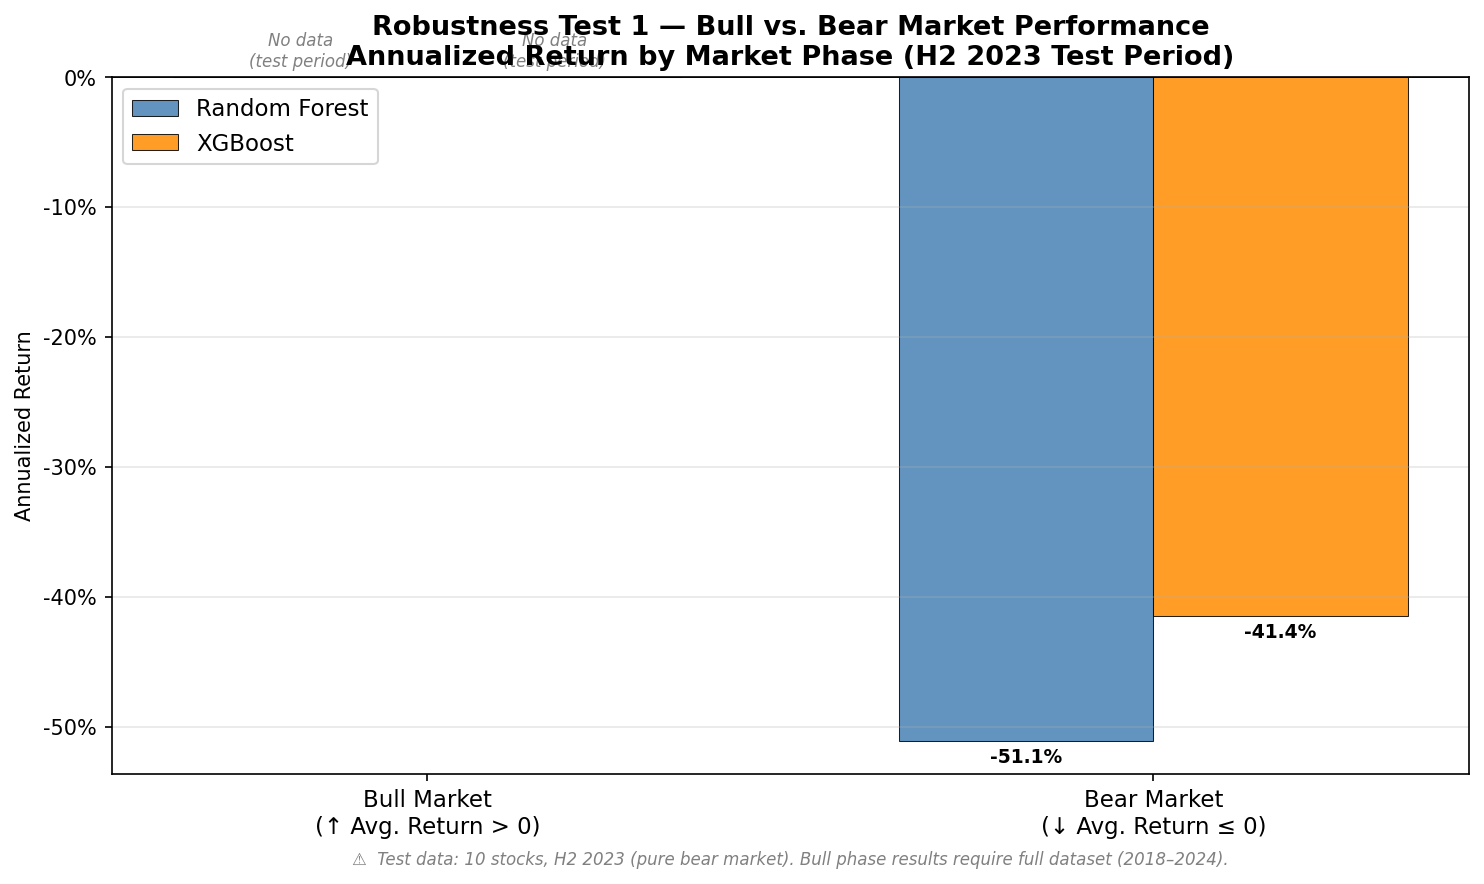
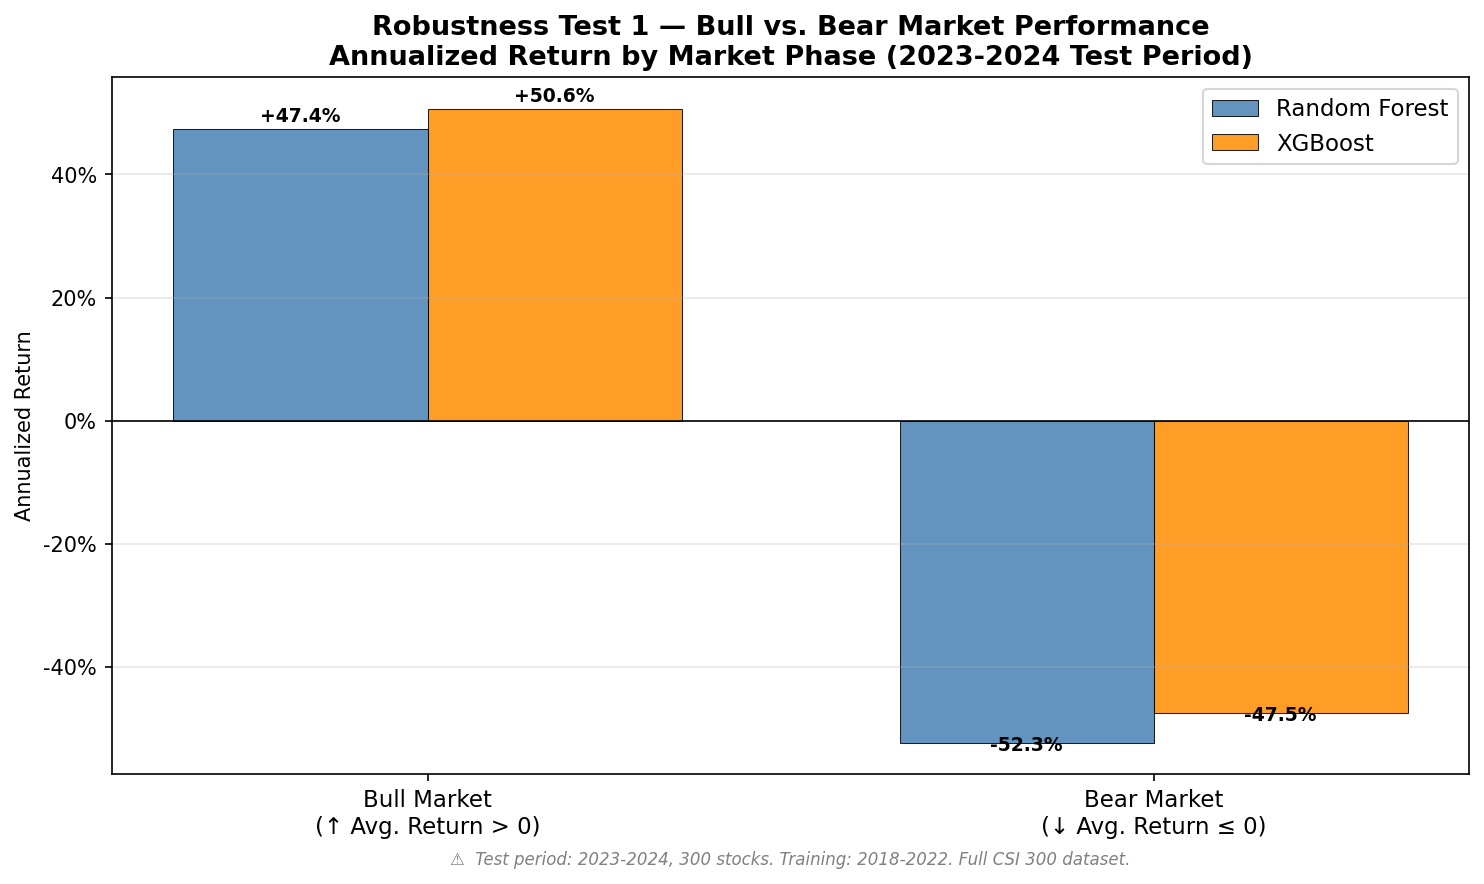
Full dataset results: 300 stocks 2018-2024, robustness analysis complete

diff --git a/factors/factors.py b/factors/factors.py
@@ -40,43 +40,31 @@ print(stocks[:5])
 
 # --- Block 3: Load Daily Price Data ---
 def get_price_data(stocks, start_date='20180101', end_date='20241231'):
-    """
-    Loads daily price data for a list of stocks.
-    Returns a DataFrame with all stocks combined.
-    """
     all_data = []
-
-    for stock in stocks:
-        df = pro.daily(
-            ts_code=stock,
-            start_date=start_date,
-            end_date=end_date
-        )
-        all_data.append(df)
-
+    
+    for i, stock in enumerate(stocks):
+        success = False
+        retries = 3
+        while not success and retries > 0:
+            try:
+                df = pro.daily(
+                    ts_code=stock,
+                    start_date=start_date,
+                    end_date=end_date
+                )
+                all_data.append(df)
+                success = True
+                if (i + 1) % 10 == 0:
+                    print(f"  Progress: {i+1}/{len(stocks)} stocks loaded")
+            except Exception as e:
+                retries -= 1
+                print(f"  ⚠ Retry {stock} ({retries} left): {e}")
+                import time
+                time.sleep(5)  # 5 Sekunden warten vor Retry
+    
     price_data = pd.concat(all_data, ignore_index=True)
     print(f"✅ Price data loaded: {len(price_data)} rows")
     return price_data
-
-# --- Save / Load Logic ---
-import os
-
-DATA_FILE = 'data/price_data.csv'  # Path to saved data
-
-if os.path.exists(DATA_FILE):
-    # If file exists → load from disk, no API call needed
-    print("📂 Loading price data from local file...")
-    prices = pd.read_csv(DATA_FILE)
-    print(f"✅ Loaded {len(prices)} rows from disk")
-else:
-    # If file doesn't exist → fetch from Tushare and save
-    print("🌐 Fetching price data from Tushare...")
-    os.makedirs('data', exist_ok=True)  # Create data folder if needed
-    prices = get_price_data(stocks)
-    prices.to_csv(DATA_FILE, index=False)  # Save to disk
-    print(f"✅ Saved to {DATA_FILE}")
-
-print(prices.head())
 
 # --- Block 4: Calculate Momentum Factor ---
 def calculate_momentum(price_data, window=20):
@@ -111,8 +99,8 @@ def calculate_momentum(price_data, window=20):
     return momentum_df
 
 # Test
-momentum = calculate_momentum(prices)
-print(momentum.head(10))
+#momentum = calculate_momentum(prices)
+#print(momentum.head(10))
 
 # --- Block 5: Load Fundamental Data (PE, PB, Turnover) ---
 def get_fundamental_data(stocks, trade_date='20240103'):
@@ -140,7 +128,7 @@ def get_fundamental_data(stocks, trade_date='20240103'):
     return fundamentals
 
 # Test
-fundamentals = get_fundamental_data(stocks)
+#fundamentals = get_fundamental_data(stocks)
 
 # --- Block 6: Load ROE (Profitability Factor) ---
 def get_roe_data(stocks, period='20231231'):
@@ -172,29 +160,62 @@ def get_roe_data(stocks, period='20231231'):
     return roe_df
 
 # Test
-roe_data = get_roe_data(stocks)
+#roe_data = get_roe_data(stocks)
 # --- Block 6b: Load Monthly Fundamentals (PE, Turnover) ---
 def get_monthly_fundamentals(stocks, start_date='20180101', end_date='20241231'):
-    """
-    Lädt PE und Turnover für jeden Monat × jede Aktie.
-    Wir nehmen den letzten Handelstag jedes Monats.
-    """
+    FUND_FILE = 'data/fundamentals_monthly.csv'
+    
+    # Bereits geladene Daten prüfen
+    if os.path.exists(FUND_FILE):
+        existing = pd.read_csv(FUND_FILE)
+        done_dates = existing['trade_date'].unique().tolist()
+        print(f"📂 Bereits geladen: {len(done_dates)} Datumswerte — weiter ab da")
+    else:
+        existing = pd.DataFrame()
+        done_dates = []
+        os.makedirs('data', exist_ok=True)
+
     dates = pd.date_range(start=start_date, end=end_date, freq='BME')
     dates = [d.strftime('%Y%m%d') for d in dates]
 
     all_data = []
+    import time
 
-    for date in dates:
+    for di, date in enumerate(dates):
+        if int(date) in done_dates or date in done_dates:
+            continue  # bereits geladen → überspringen
+
         for stock in stocks:
-            df = pro.daily_basic(
-                ts_code=stock,
-                trade_date=date,
-                fields='ts_code,trade_date,pe_ttm,turnover_rate'
-            )
-            if len(df) > 0:
-                all_data.append(df)
+            success = False
+            retries = 3
+            while not success and retries > 0:
+                try:
+                    df = pro.daily_basic(
+                        ts_code=stock,
+                        trade_date=date,
+                        fields='ts_code,trade_date,pe_ttm,turnover_rate'
+                    )
+                    if len(df) > 0:
+                        all_data.append(df)
+                    success = True
+                except Exception as e:
+                    retries -= 1
+                    print(f"  ⚠ Retry {stock} {date} ({retries} left): {e}")
+                    time.sleep(5)
 
-    fundamentals_monthly = pd.concat(all_data, ignore_index=True)
+        # Nach jedem Monat speichern
+        if all_data:
+            temp = pd.concat([existing] + all_data, ignore_index=True)
+            temp.to_csv(FUND_FILE, index=False)
+
+        if (di + 1) % 10 == 0:
+            print(f"  Progress: {di+1}/{len(dates)} months loaded")
+
+    if all_data:
+        fundamentals_monthly = pd.concat([existing] + all_data, ignore_index=True)
+    else:
+        fundamentals_monthly = existing
+
     print(f"✅ Monthly fundamentals: {len(fundamentals_monthly)} rows")
     return fundamentals_monthly
 
@@ -283,7 +304,7 @@ def calculate_mfi(price_data, window=14):
     return mfi_df
 
 # Test
-mfi_data = calculate_mfi(prices)
+#mfi_data = calculate_mfi(prices)
 
 # --- Block 8: Combine All Factors + Composite Score ---
 def calculate_composite_score(fundamentals, roe_data, 
@@ -353,9 +374,9 @@ def calculate_composite_score(fundamentals, roe_data,
     return df
 
 # Test
-factor_df = calculate_composite_score(
-    fundamentals, roe_data, momentum, mfi_data
-)
+#factor_df = calculate_composite_score(
+#    fundamentals, roe_data, momentum, mfi_data
+#)
 
 # --- Block 9: Save Final Factor Data ---
 def save_factor_data(factor_df, filename='data/factors_latest.csv'):
@@ -396,8 +417,16 @@ if __name__ == "__main__":
     # Step 2b: Load monthly fundamentals (PE, Turnover)
     FUND_FILE = 'data/fundamentals_monthly.csv'
     if os.path.exists(FUND_FILE):
-        print("📂 Loading fundamentals from local file...")
-        fundamentals_monthly = pd.read_csv(FUND_FILE)
+        existing = pd.read_csv(FUND_FILE)
+        print(f"📂 Fundamentals teilweise geladen: {len(existing)} Zeilen")
+        print(f"   Letztes Datum: {existing['trade_date'].max()}")
+        # Prüfen ob vollständig — sollte ~25000 Zeilen haben
+        if len(existing) < 20000:
+            print("⚠  Nicht vollständig — lade weiter...")
+            fundamentals_monthly = get_monthly_fundamentals(stocks)
+        else:
+            fundamentals_monthly = existing
+            print("✅ Vollständig geladen")
     else:
         print("🌐 Fetching monthly fundamentals from Tushare...")
         fundamentals_monthly = get_monthly_fundamentals(stocks)

diff --git a/analysis/analysis.py b/analysis/analysis.py
@@ -217,7 +217,7 @@ def plot_bull_bear(results, save_path='report/figures/bull_bear_analysis.png'):
 
     # Formatierung
     ax.set_title('Robustness Test 1 — Bull vs. Bear Market Performance\n'
-                 'Annualized Return by Market Phase (H2 2023 Test Period)',
+                 'Annualized Return by Market Phase (2023-2024 Test Period)',
                  fontsize=13, fontweight='bold')
     ax.set_ylabel('Annualized Return')
     ax.set_xticks(x + width / 2)
@@ -229,8 +229,8 @@ def plot_bull_bear(results, save_path='report/figures/bull_bear_analysis.png'):
 
     # Hinweis-Text unten im Chart
     ax.text(0.5, -0.13,
-            '⚠  Test data: 10 stocks, H2 2023 (pure bear market). '
-            'Bull phase results require full dataset (2018–2024).',
+            '⚠  Test period: 2023-2024, 300 stocks. '
+            'Training: 2018-2022. Full CSI 300 dataset.',
             transform=ax.transAxes,
             ha='center', fontsize=8, color='gray', style='italic')
 
@@ -363,8 +363,8 @@ def plot_cost_sensitivity(multipliers, rf_returns, xgb_returns, bnh_return,
 
     # Hinweis unten
     ax.text(0.5, -0.13,
-            '⚠  Based on test data: 10 stocks, H2 2023. '
-            'Results will be more stable with full dataset (2018–2024).',
+            '⚠  Based on full dataset: 300 stocks, 2018-2024. '
+            'Training: 2018-2022 | Test: 2023-2024.',
             transform=ax.transAxes,
             ha='center', fontsize=8, color='gray', style='italic')
 
